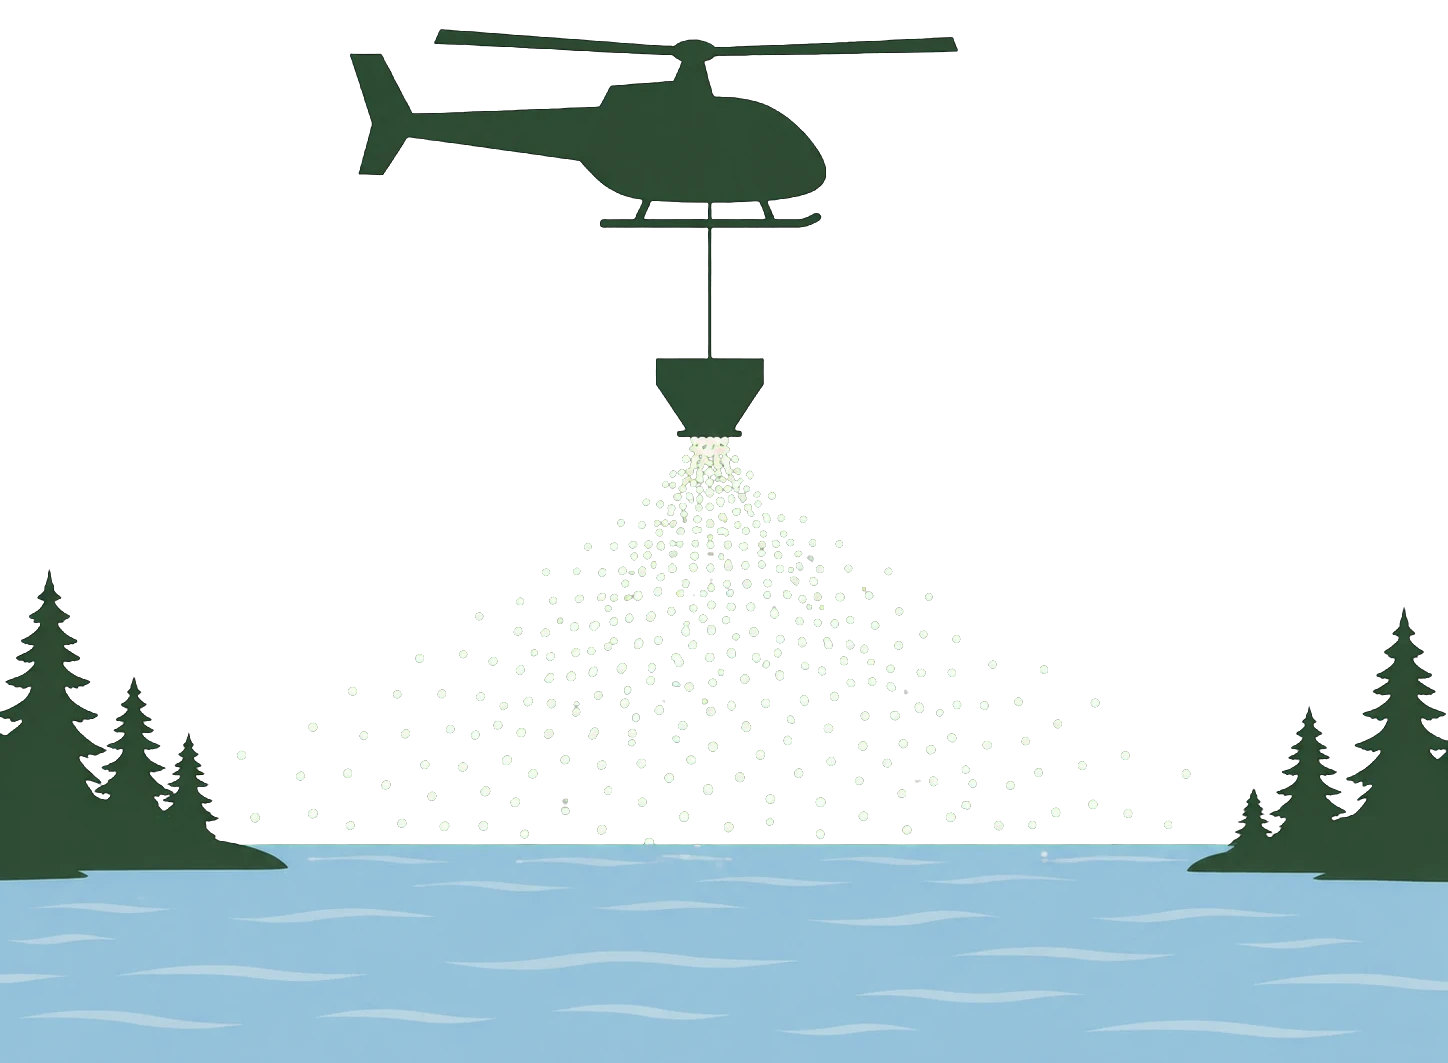
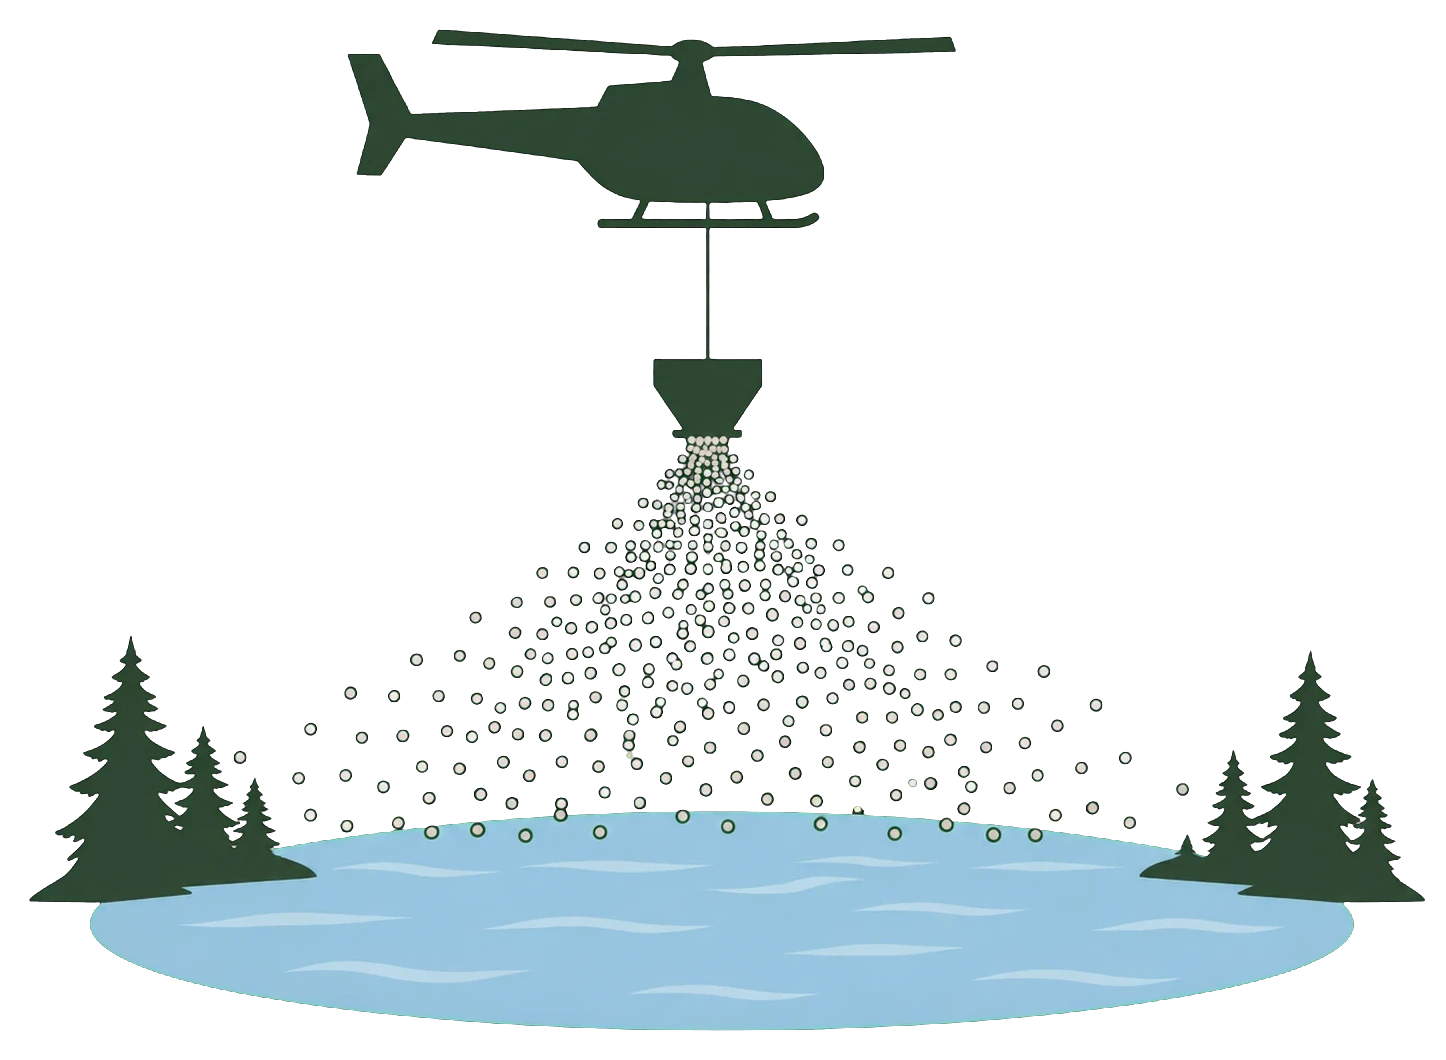
kalkning.webp omgjord (avgränsad sjö, synlig kalk) och syra-och-metall.webp (grön bakgrund) nycklade; syra-och-metall aktiv i Syror 5 A som stående bild

diff --git a/kapitel/syror-och-baser/delkapitel/syror/avsnitt-5-viktiga-syror.html b/kapitel/syror-och-baser/delkapitel/syror/avsnitt-5-viktiga-syror.html
@@ -102,7 +102,6 @@
           <h2>De reagerar med metaller</h2>
           <p>Syror kan reagera med vissa metaller. När det sker bildas <strong>vätgas</strong>, som bubblar upp ur lösningen.</p>
           <p>Det som händer är att metallatomerna avger elektroner, precis som när de bildar joner. Elektronerna tas upp av vätejonerna i lösningen, som därmed blir väteatomer igen. Två väteatomer bildar tillsammans en vätgasmolekyl.</p>
-          <!-- BILD: syra-och-metall.webp – levereras senare, avkommentera när filen finns i img/.
           <div class="bildguide">
             <div class="bildguide-rubrik">👁 Titta efter</div>
             <ul>
@@ -111,11 +110,10 @@
               <li>Åt vilket håll de rör sig</li>
             </ul>
           </div>
-          <figure class="brodtext-bild enkel">
+          <figure class="brodtext-bild enkel staende">
             <img src="img/syra-och-metall.webp" alt="Ett provrör med sur lösning och tre metallbitar på botten. Från metallen stiger bubblor uppåt genom vätskan mot ytan.">
             <figcaption>När en syra reagerar med en metall bildas vätgas. Bubblorna är gasen på väg upp.</figcaption>
           </figure>
-          -->
           <p>Alla metaller reagerar dock inte lika lätt. Guld och platina reagerar knappt alls, medan zink och magnesium reagerar villigt.</p>
           <h2>De kan vara frätande</h2>
           <p>Många syror är frätande, särskilt koncentrerade lösningar av starka syror.</p>
@@ -146,12 +144,10 @@
           <p>Sura lösningar <strong>leder elektrisk ström</strong> eftersom de innehåller rörliga joner. När exempelvis väteklorid löses i vatten bildas oxoniumjoner och kloridjoner som kan transportera elektrisk laddning genom lösningen.</p>
           <p>Syror kan också <strong>reagera med vissa metaller</strong>. Vid sådana reaktioner kan det bildas vätgas. Alla metaller reagerar dock inte lika lätt med syror.</p>
           <p>Det som händer är att metallatomerna avger elektroner, precis som när de bildar joner. Elektronerna tas upp av vätejonerna i lösningen, som därmed blir väteatomer igen. Två väteatomer bildar tillsammans en vätgasmolekyl, som bubblar upp ur lösningen.</p>
-          <!-- BILD: syra-och-metall.webp – levereras senare, avkommentera när filen finns i img/.
-          <figure class="brodtext-bild standard">
+          <figure class="brodtext-bild standard staende">
             <img src="img/syra-och-metall.webp" alt="Ett provrör med sur lösning och tre metallbitar på botten. Från metallen stiger bubblor uppåt genom vätskan mot ytan.">
             <figcaption>Metallatomerna avger elektroner till vätejonerna i lösningen, som därmed blir väteatomer. Två väteatomer bildar en vätgasmolekyl.</figcaption>
           </figure>
-          -->
           <p>Många syror kan vara <strong>frätande</strong>. Det gäller särskilt koncentrerade lösningar av starka syror, men även vissa koncentrerade svaga syror kan orsaka allvarliga skador. Hur farlig en syralösning är beror därför inte enbart på om syran kallas stark eller svag.</p>
           <p>En annan viktig egenskap är att syror kan <strong>neutraliseras av baser</strong>. När en syra och en bas reagerar med varandra minskar deras sura respektive basiska egenskaper. Detta kallas <strong>neutralisation</strong> och är något vi kommer att undersöka närmare längre fram.</p>
         </div>

diff --git a/verktyg/bygg-avsnitt-konfig.js b/verktyg/bygg-avsnitt-konfig.js
@@ -60,7 +60,7 @@ const AVSNITT_SYROR = {
   4: { dd: [{ slug: 'mol', titel: 'Mol: en brygga mellan atomer och gram', ikon: '⚖' }],   // Joachims text, mol.md – länkas senare även från neutralisation/salter (byggs där ur samma fil)
        bilder: { 'fyra-kombinationerna.svg': { aktiv: [], enkel: 'en syra som avger ogärna', standard: 'Utspädd ättiksyra är ett exempel' } } },
   5: { dd: [],
-       bilder: { 'syra-och-metall.webp': { aktiv: [], enkel: 'tillsammans en vätgasmolekyl', standard: 'metallatomerna avger elektroner' } } }
+       bilder: { 'syra-och-metall.webp': { aktiv: ['enkel', 'standard'], staende: true, enkel: 'tillsammans en vätgasmolekyl', standard: 'metallatomerna avger elektroner' } } }   // grön bakgrund, nycklad 2026-09-13; stående provrör
 };
 // Baser (leverans 2026-09-13): titel/slug/underrubrik ur huvudet. tva-vagar-till-bas.svg genererad (bilder-svg.js);
 // stark-och-svag-bas.webp och fortvalning.webp levererades med grön bakgrund (#00ff00) och nycklades
